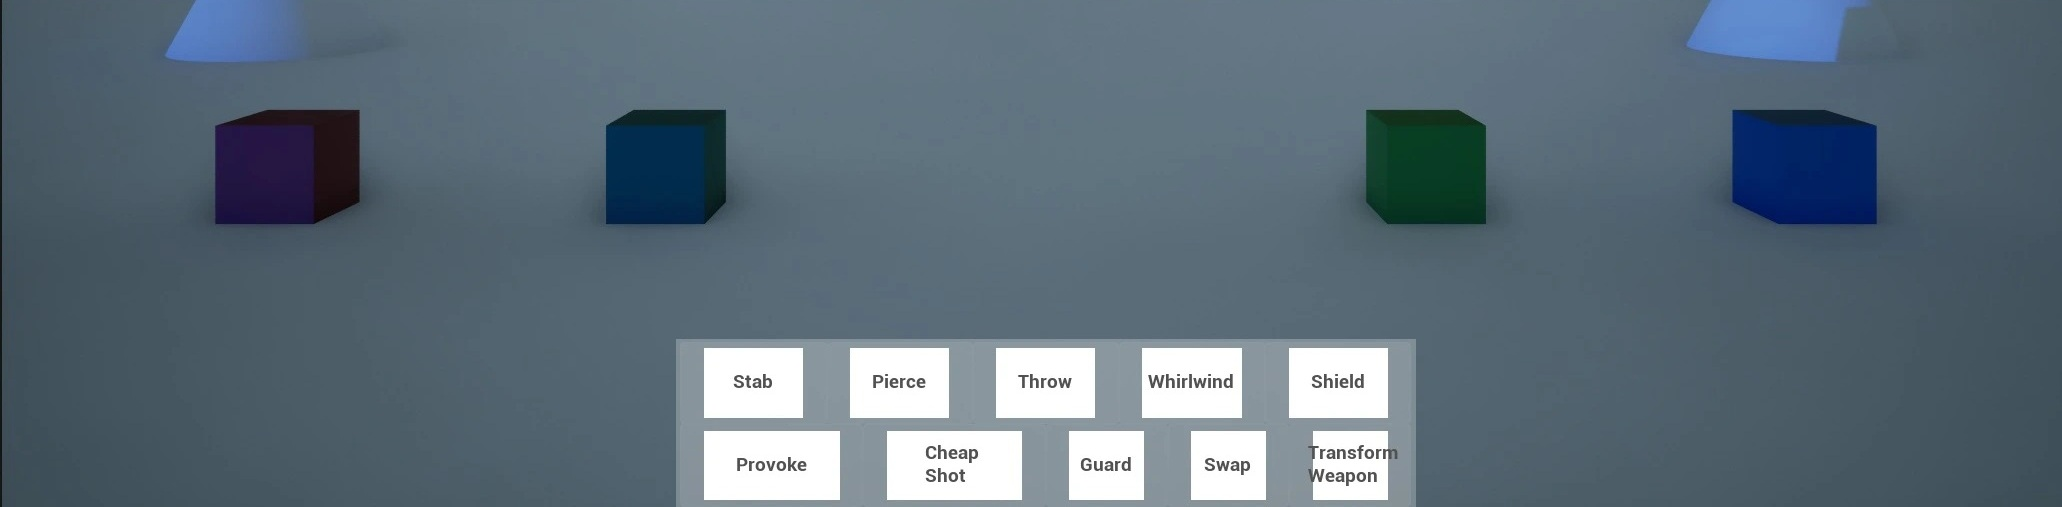
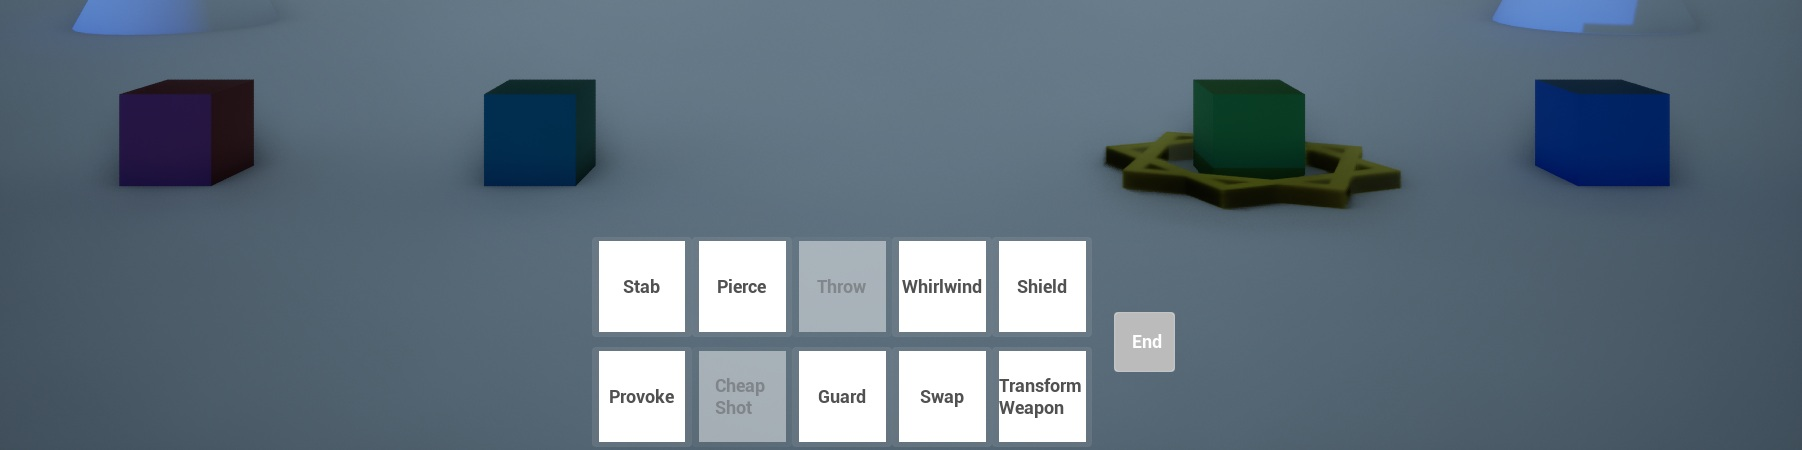
Update keyart.jpg

diff --git a/index.html b/index.html
@@ -870,7 +870,7 @@
     <div class="project-card">
       <!-- Thumbnail: swap the placeholder div for an <img> when ready -->
       <div class="project-thumb">
-        <img src="wanderers/img/keyart.jpg?v=0.1" alt="Wanderers of the Mist Key Art">
+        <img src="wanderers/img/keyart.jpg?v=0.2" alt="Wanderers of the Mist Key Art">
       </div>
 
       <div class="project-body">
